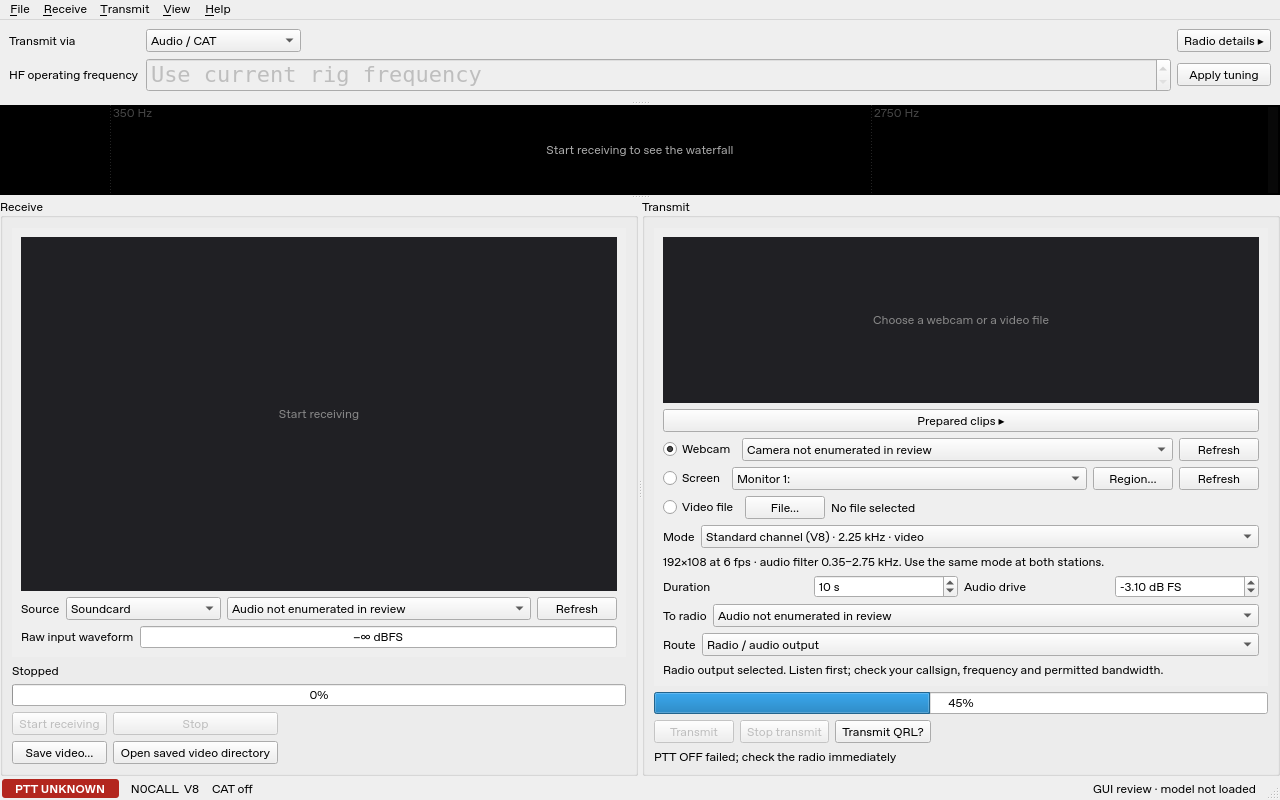
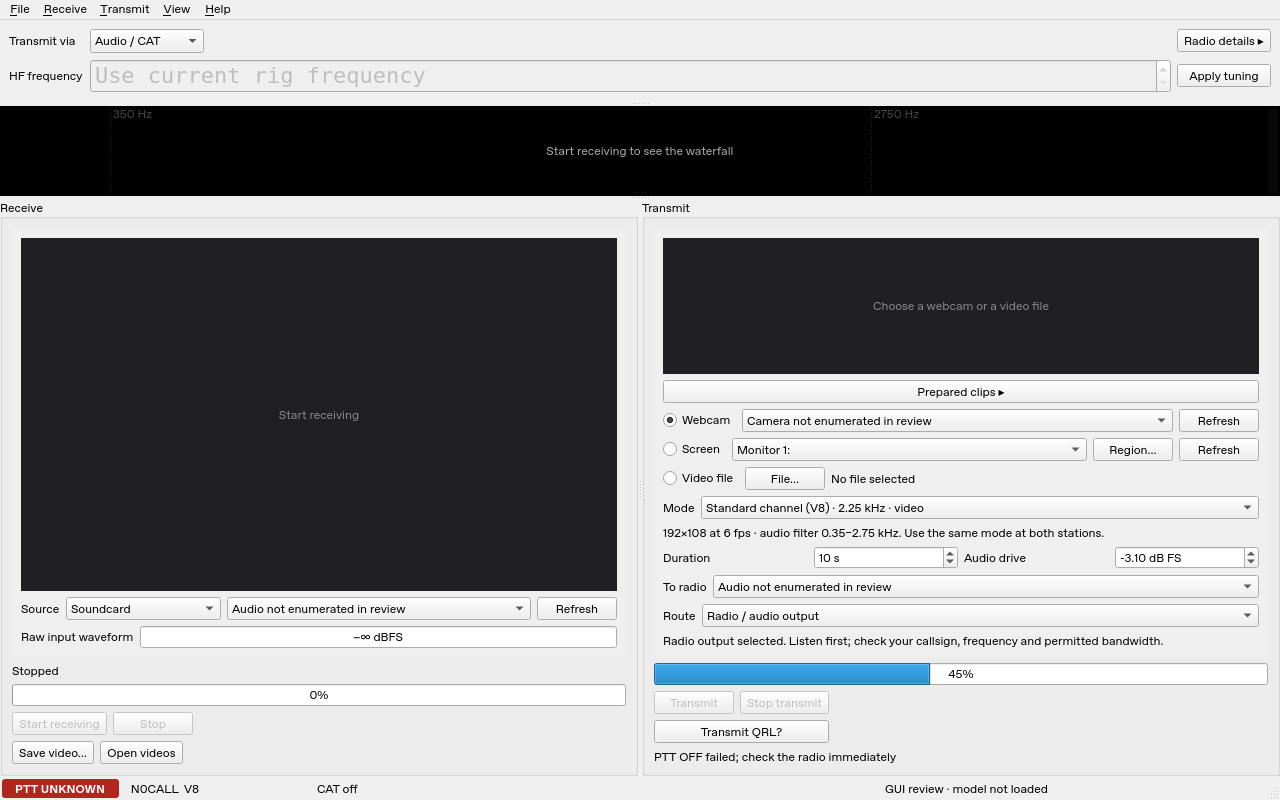
Fit station controls and status at high DPI; check GUI early in CI

diff --git a/tests/test_gui_usability.py b/tests/test_gui_usability.py
@@ -293,9 +293,10 @@ def test_manual_receive_and_tuning_preserve_unconfirmed_off_on_cancel(window, mo
 
 
 @pytest.mark.parametrize("style", ["Windows", "Fusion"])
-def test_laptop_layout_fits_large_native_metrics_with_all_actions_visible(window, style):
-    from PySide6.QtGui import QFont
-    from PySide6.QtWidgets import QStyleFactory
+@pytest.mark.parametrize("font_units,font_size", [("points", 18), ("pixels", 48)])
+def test_laptop_layout_fits_large_native_metrics_with_all_actions_visible(window, style, font_units, font_size):
+    from PySide6.QtGui import QFont, QFontInfo
+    from PySide6.QtWidgets import QStyleFactory, QWidget
 
     original_style = _APP.style().objectName()
     original_font = QFont(_APP.font())
@@ -305,15 +306,42 @@ def test_laptop_layout_fits_large_native_metrics_with_all_actions_visible(window
         _APP.setStyle(native_style)
         # Exposes the single-row minimum-width bug on Linux too; does not
         # reduce Windows font sizes or loosen the 1280 x 800 requirement.
-        _APP.setFont(QFont("DejaVu Sans", 18))
+        font = QFont("DejaVu Sans")
+        if font_units == "points":
+            font.setPointSize(font_size)
+        else:
+            # Exercise much larger physical glyphs independently of Linux vs
+            # Windows point-size/DPI conversion and installed-font fallback.
+            font.setPixelSize(font_size)
+        _APP.setFont(font)
         _APP.processEvents()
         window.resize(1280, 800)
         _APP.processEvents()
-        assert window.minimumSizeHint().width() <= 1280
-        assert window.width() == 1280
-        assert window.height() == 800
+
+        def describe(widget):
+            info = QFontInfo(widget.font())
+            label = widget.objectName() or type(widget).__name__
+            text = getattr(widget, "text", lambda: "")()
+            return (f"{label} {text!r}: size={widget.size().toTuple()} "
+                    f"minimum={widget.minimumSize().toTuple()} "
+                    f"hint={widget.minimumSizeHint().toTuple()} "
+                    f"font={info.family()!r}/{info.pixelSize()}px")
+
+        roots = [window.centralWidget(), window.radio, window.tx,
+                 window.tx.action_strip(), window.rx, window.rx.action_strip(),
+                 window.statusBar()]
+        widest = sorted(window.findChildren(QWidget),
+                        key=lambda item: item.minimumSizeHint().width(), reverse=True)[:12]
+        screen = _APP.primaryScreen()
+        diagnostics = (f"style={_APP.style().objectName()} font={font.toString()} "
+                       f"DPI={screen.logicalDotsPerInch()} DPR={screen.devicePixelRatio()}\n"
+                       + "\n".join(describe(item) for item in roots + widest))
+        assert window.minimumSizeHint().width() <= 1280, diagnostics
+        assert window.width() == 1280, diagnostics
+        assert window.height() == 800, diagnostics
         controls = (
             window.radio.apply, window.radio.advanced_toggle,
+            window.radio.frequency_label, window.radio.frequency, window.radio.backend,
             window.tx.send_button, window.tx.cancel_button, window.tx.qrl_button,
             window.rx.start_button, window.rx.stop_button,
             window.rx.save_button, window.rx.open_saved_videos_button,
@@ -322,12 +350,26 @@ def test_laptop_layout_fits_large_native_metrics_with_all_actions_visible(window
         for control in controls:
             point = control.mapTo(window, QPoint(0, 0))
             rect = control.rect().translated(point)
-            assert window.rect().contains(rect), control.text()
-            assert control.width() >= control.minimumSizeHint().width(), control.text()
-            assert control.height() >= control.minimumSizeHint().height(), control.text()
-            assert not any(rect.intersects(other) for other in rectangles), control.text()
+            assert window.rect().contains(rect), diagnostics + "\n" + describe(control)
+            assert control.width() >= control.minimumSizeHint().width(), diagnostics + "\n" + describe(control)
+            assert control.height() >= control.minimumSizeHint().height(), diagnostics + "\n" + describe(control)
+            assert not any(rect.intersects(other) for other in rectangles), diagnostics + "\n" + describe(control)
             rectangles.append(rect)
     finally:
         _APP.setFont(original_font)
         _APP.setStyle(QStyleFactory.create(original_style))
         _APP.processEvents()
+
+
+def test_status_fields_share_space_and_keep_full_text_without_expanding_window(window):
+    for label in (window.station_label, window.rig_label, window.model_label):
+        message = "Connection status with a long device name and full recovery instructions " * 4
+        label.setText(message)
+        _APP.processEvents()
+        assert label.width() > 0
+        assert label.text()
+        assert label.toolTip() == message
+    window.resize(1280, 800)
+    _APP.processEvents()
+    assert window.width() == 1280
+    assert window.height() == 800

diff --git a/aetv/gui/rx_panel.py b/aetv/gui/rx_panel.py
@@ -15,7 +15,6 @@ from PySide6.QtWidgets import (
     QCheckBox,
     QComboBox,
     QHBoxLayout,
-    QGridLayout,
     QLabel,
     QLineEdit,
     QDoubleSpinBox,
@@ -510,7 +509,8 @@ class ReceivePanel(QWidget):
         self.start_button = QPushButton("Start receiving")
         self.stop_button = QPushButton("Stop")
         self.save_button = QPushButton("Save video…")
-        self.open_saved_videos_button = QPushButton("Open saved video directory")
+        self.open_saved_videos_button = QPushButton("Open videos")
+        self.open_saved_videos_button.setToolTip("Open saved video directory")
         self.stop_button.setEnabled(False)
         self.start_button.clicked.connect(self.start)
         self.stop_button.clicked.connect(self.stop)
@@ -554,12 +554,14 @@ class ReceivePanel(QWidget):
         auto_row.addStretch(1)
         # These actions are pinned outside the scroll area. Two short rows
         # keep every button accessible with native Windows/large-font metrics.
-        buttons = QGridLayout()
-        buttons.addWidget(self.start_button, 0, 0)
-        buttons.addWidget(self.stop_button, 0, 1)
-        buttons.addWidget(self.save_button, 1, 0)
-        buttons.addWidget(self.open_saved_videos_button, 1, 1)
-        buttons.setColumnStretch(2, 1)
+        buttons = QVBoxLayout()
+        for pair in ((self.start_button, self.stop_button),
+                     (self.save_button, self.open_saved_videos_button)):
+            row = QHBoxLayout()
+            for button in pair:
+                row.addWidget(button)
+            row.addStretch(1)
+            buttons.addLayout(row)
         strip.addLayout(row1)
         strip.addLayout(self.raw_meter_row)
         strip.addLayout(self.playback_row)

diff --git a/aetv/gui/app.py b/aetv/gui/app.py
@@ -33,7 +33,7 @@ from aetv.gui.settings_dialog import SettingsDialog
 from aetv.gui.tx_panel import TransmitPanel
 from aetv.gui.waterfall import Waterfall
 from aetv.gui.radio_panel import RadioPanel
-from aetv.gui.widgets import LogPane, PttLamp
+from aetv.gui.widgets import ElidingLabel, LogPane, PttLamp
 
 
 APP_ICON = Path(__file__).resolve().parent.parent / "assets" / "aetv-logo.png"
@@ -181,16 +181,18 @@ class MainWindow(QMainWindow):
         dock.hide()
 
         self.ptt_lamp = PttLamp()
-        self.station_label = QLabel()
-        self.rig_label = QLabel("CAT off")
-        self.model_label = QLabel("Checking installed models…")
-        self.rx_status = QLabel()
+        # Long status text must not become a hard minimum window width.
+        # Full values remain available in each label's tooltip.
+        self.station_label = ElidingLabel()
+        self.rig_label = ElidingLabel("CAT off")
+        self.model_label = ElidingLabel("Checking installed models…")
+        self.rx_status = ElidingLabel()
         bar = QStatusBar()
         bar.addWidget(self.ptt_lamp)
-        bar.addWidget(self.station_label)
-        bar.addWidget(self.rig_label)
-        bar.addPermanentWidget(self.rx_status, 1)
-        bar.addPermanentWidget(self.model_label)
+        bar.addWidget(self.station_label, 1)
+        bar.addWidget(self.rig_label, 1)
+        bar.addPermanentWidget(self.rx_status, 2)
+        bar.addPermanentWidget(self.model_label, 2)
         self.setStatusBar(bar)
         self._refresh_station_label()
 

diff --git a/aetv/gui/radio_panel.py b/aetv/gui/radio_panel.py
@@ -26,6 +26,8 @@ class RadioPanel(QWidget):
         self._frequencies = {}
         grid = QGridLayout(self)
         self.backend = QComboBox()
+        self.backend.setSizeAdjustPolicy(QComboBox.SizeAdjustPolicy.AdjustToMinimumContentsLengthWithIcon)
+        self.backend.setMinimumContentsLength(8)
         self.backend.addItem("Audio / CAT", "audio")
         self.backend.addItem("PlutoSDR", "pluto")
         self.backend.addItem("HackRF (experimental)", "hackrf")
@@ -197,7 +199,7 @@ class RadioPanel(QWidget):
             self.frequency.setRange(*((1.1, 6000) if kind == "sdr" else (0, 60)))
             self.frequency.setSpecialValueText("" if kind == "sdr" else "Use current rig frequency")
             self.frequency.setValue(self._frequencies[kind])
-        self.frequency_label.setText("RF center" if kind == "sdr" else "HF operating frequency")
+        self.frequency_label.setText("RF center" if kind == "sdr" else "HF frequency")
         tunable = self._rx_source == "flex" or (
             not self._settings.audio_only and self._settings.cat_backend in {"flex", "hamlib", "rigctld"}
         )

diff --git a/aetv/gui/tx_panel.py b/aetv/gui/tx_panel.py
@@ -14,6 +14,7 @@ from PySide6.QtWidgets import (
     QDialog,
     QFileDialog,
     QHBoxLayout,
+    QGridLayout,
     QLabel,
     QMessageBox,
     QProgressBar,
@@ -475,11 +476,11 @@ class TransmitPanel(QWidget):
         self.channel_route.currentIndexChanged.connect(self._sync_channel_route)
         self.route_hint = QLabel()
         self.route_hint.setWordWrap(True)
-        buttons = QHBoxLayout()
-        buttons.addWidget(self.send_button)
-        buttons.addWidget(self.cancel_button)
-        buttons.addWidget(self.qrl_button)
-        buttons.addStretch(1)
+        buttons = QGridLayout()
+        buttons.addWidget(self.send_button, 0, 0)
+        buttons.addWidget(self.cancel_button, 0, 1)
+        buttons.addWidget(self.qrl_button, 1, 0, 1, 2)
+        buttons.setColumnStretch(2, 1)
         strip.addLayout(src)
         strip.addLayout(screen_row)
         strip.addLayout(file_row)

diff --git a/docs/final-validation-20261011.md b/docs/final-validation-20261011.md
@@ -82,3 +82,13 @@ the default window to 1290 px. Two compact control-row grids fix the width
 pressure without loosening the 1280 px assertion. Windows/Fusion large-font
 regressions and the affected suite passed **161 tests** locally. Both CI jobs
 are rerun for that follow-up; see the draft PR for their latest status.
+
+The next Windows run confirmed the default layout fix and exposed a separate
+high-DPI/large-font width constraint in the added regression. Independent action
+rows, concise labels and eliding status fields address that case without reducing
+font size or weakening the laptop bounds. The final affected suite passed
+**164 tests**, including four large-font cases repeated at 192 DPI. The final
+broad local rerun passed **590 tests, 2 skipped** in **188.78 seconds**, with the
+same six local Torch exclusions. CI now runs GUI layout checks before the full
+suite so platform layout failures surface early. Final hosted results are linked
+from the PR and included in the delivered report.

diff --git a/docs/gui-usability-20261011.md b/docs/gui-usability-20261011.md
@@ -82,3 +82,12 @@ fully visible without weakening the laptop-fit requirement. New tests exercise
 Windows and Fusion styles at 18 pt and check exact 1280 × 800 size, minimum
 button sizes, containment and non-overlap. The affected suite passed **161
 tests** locally; actual Windows CI is rerun on the follow-up commit.
+
+A second CI pass confirmed the default Windows size, while the added large-font
+checks exposed further physical-font scaling pressure. QRL now has its own row,
+receive rows size independently, the radio label can wrap, and non-safety status
+fields elide with complete hover text. PTT remains fully visible. Regression
+coverage includes both 18 pt and explicit 48 px fonts, detailed DPI/layout
+failure diagnostics, and a 192-DPI subprocess check. **164 affected tests** and
+all four large-font cases passed locally. CI runs this GUI file before the full
+suite to surface platform layout problems promptly.
